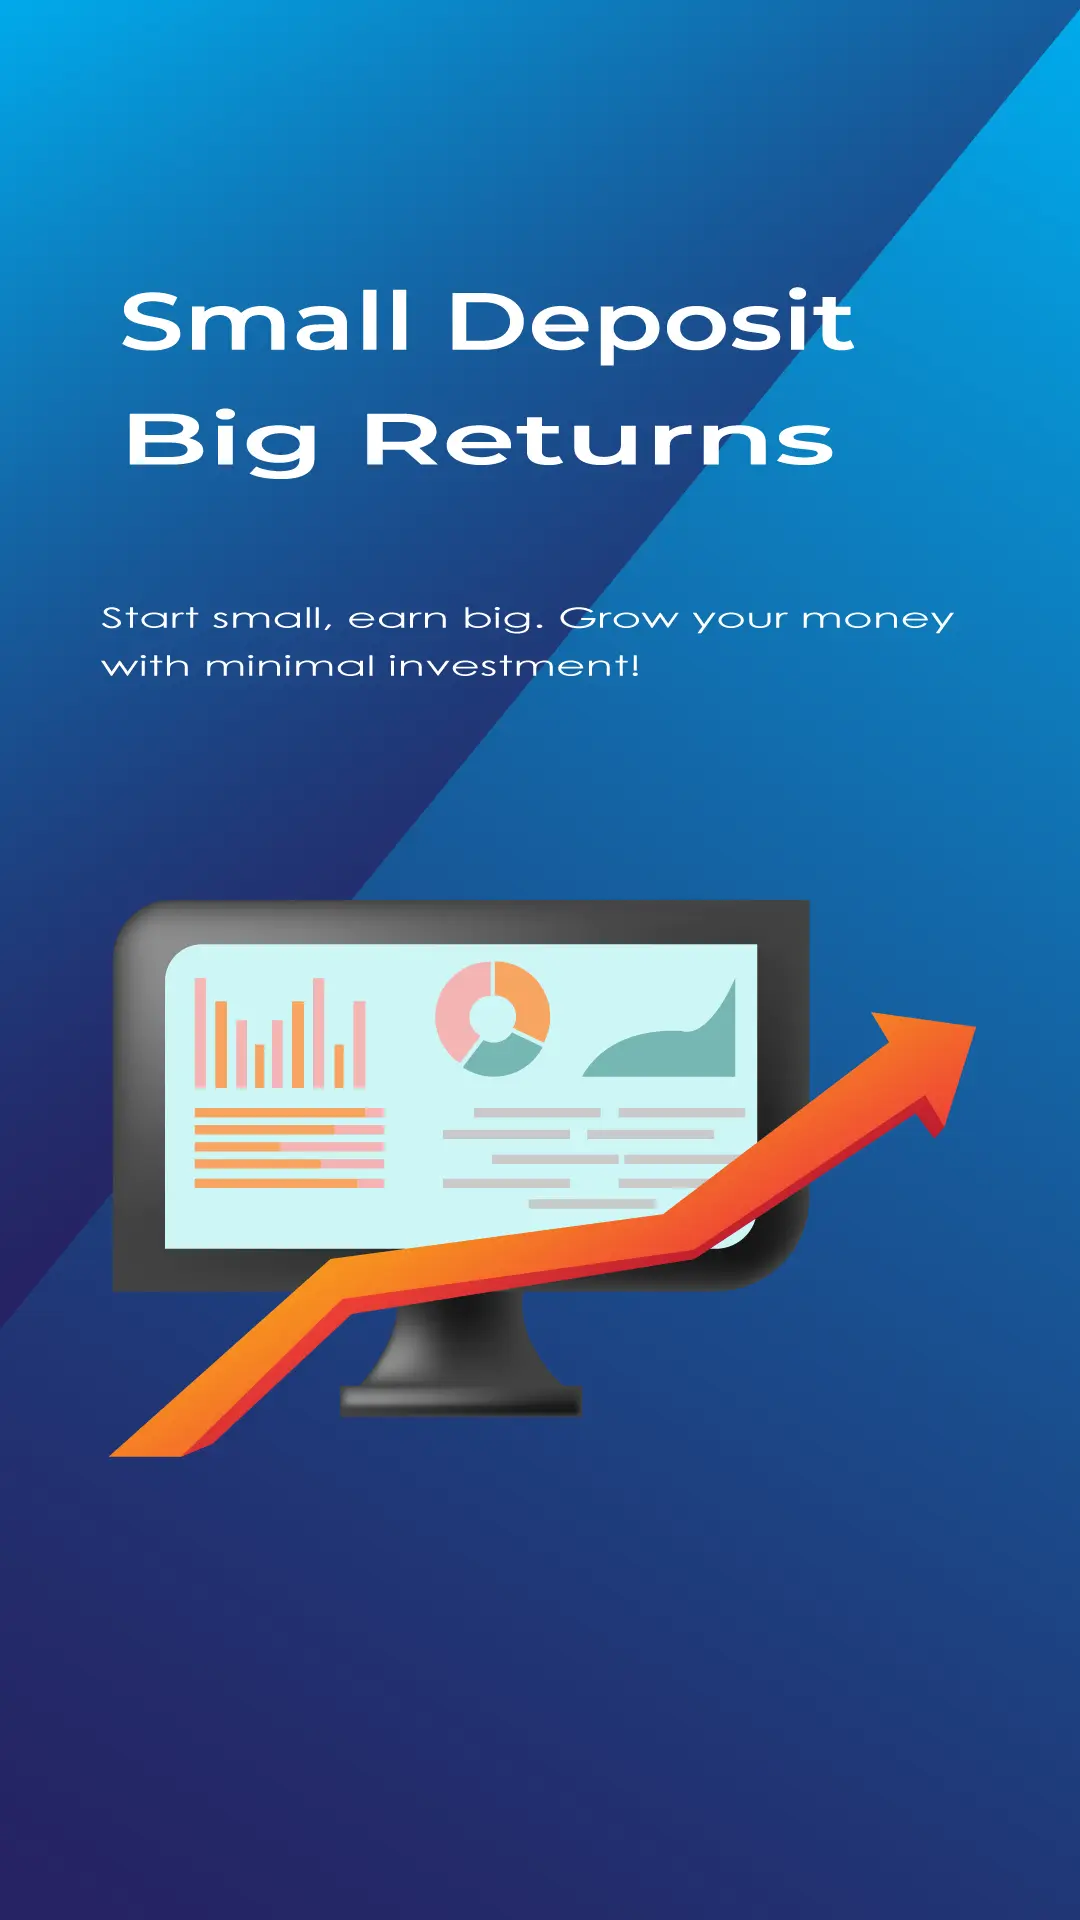
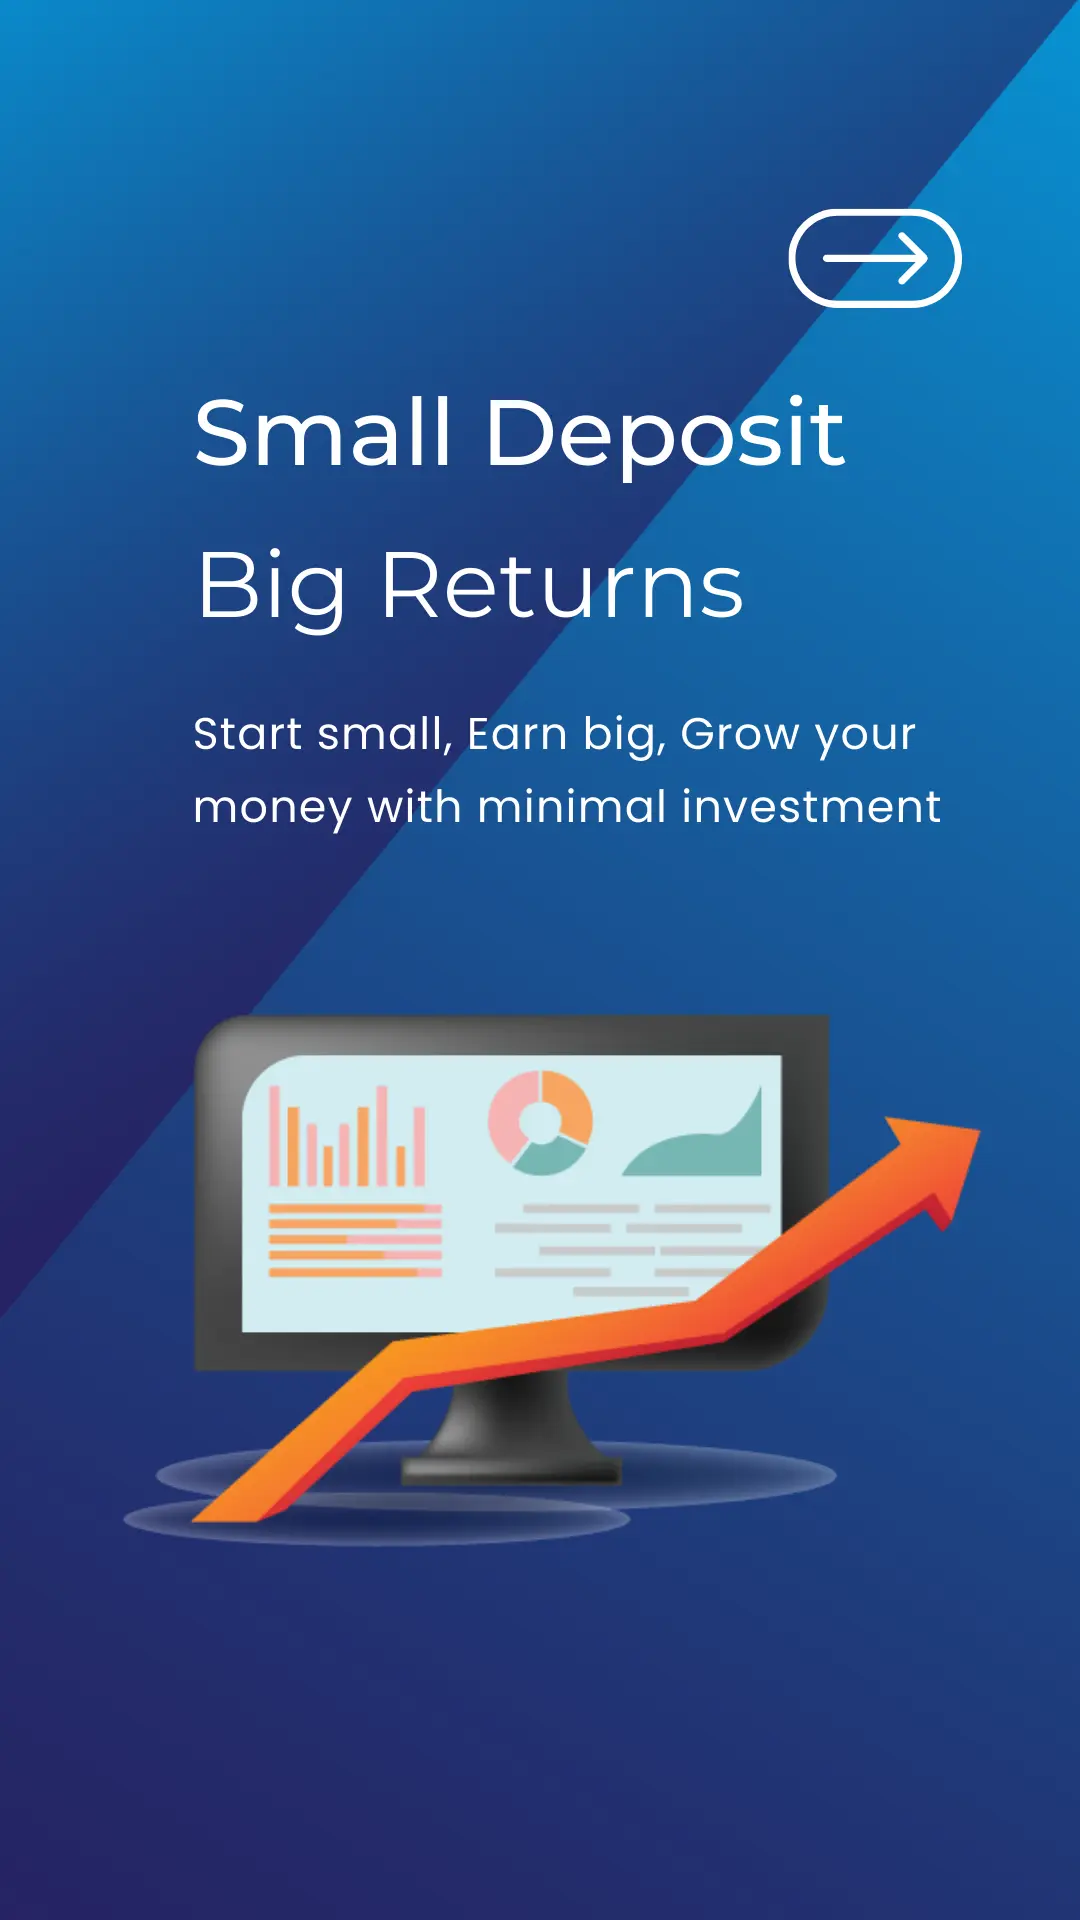
OnBoard screen image and splash screen change

Changed region(s): [[0.0, 0.0, 1.0, 0.8125], [0.7944, 0.3125, 0.8861, 0.3438]]

diff --git a/lib/screens/onBord/on_board_screen.dart b/lib/screens/onBord/on_board_screen.dart
@@ -94,3 +94,102 @@ class StartedScreen extends StatelessWidget {
     );
   }
 }
+
+
+
+// import 'package:flutter/material.dart';
+// import 'package:carousel_slider/carousel_slider.dart';
+// import 'package:v1_micro_finance/configs/routes/routes_name.dart';
+
+// class StartedScreen extends StatelessWidget {
+//   const StartedScreen({super.key});
+
+//   @override
+//   Widget build(BuildContext context) {
+//     // Screen height and width for responsive design
+//     final screenHeight = MediaQuery.of(context).size.height;
+//     final screenWidth = MediaQuery.of(context).size.width;
+
+//     return Scaffold(
+//       body: Stack(
+//         children: [
+//           // Background Image Slider
+//           CarouselSlider(
+//             options: CarouselOptions(
+//               height: screenHeight, // Full screen height
+//               autoPlay: true, // Enables auto sliding
+//               autoPlayInterval: Duration(seconds: 3), // 3 sec duration
+//               viewportFraction: 1.0, // Ensures full width coverage
+//               enableInfiniteScroll: true, // Infinite loop of images
+//             ),
+//             items: [
+//               'assets/images/image_one.webp',
+//               'assets/images/image_two.webp',
+//               'assets/images/image_three.webp',
+//               'assets/images/image_four.webp',
+//             ].map((imagePath) {
+//               return Container(
+//                 width: screenWidth, // Full width
+//                 decoration: BoxDecoration(
+//                   image: DecorationImage(
+//                     image: AssetImage(imagePath),
+//                     fit: BoxFit.cover, // Makes sure images fit the screen
+//                   ),
+//                 ),
+//               );
+//             }).toList(),
+//           ),
+
+//           // Buttons Section (Positioned at the bottom)
+//           Positioned(
+//             bottom: screenHeight * 0.1, // Position buttons dynamically
+//             left: screenWidth * 0.12,
+//             right: screenWidth * 0.12,
+//             child: Row(
+//               mainAxisAlignment:
+//                   MainAxisAlignment.spaceBetween, // Distribute buttons evenly
+//               children: [
+//                 _buildButton(context, 'Login', () {
+//                   Navigator.pushNamed(context,
+//                       RoutesName.signInScreen); // Navigate to login screen
+//                 }),
+//                 _buildButton(context, 'Get Started', () {
+//                   Navigator.pushNamed(context,
+//                       RoutesName.sanaSignupScreen); // Navigate to signup screen
+//                 }),
+//               ],
+//             ),
+//           ),
+//         ],
+//       ),
+//     );
+//   }
+
+//   // Function to create buttons with customized text and event handler
+//   Widget _buildButton(
+//       BuildContext context, String text, VoidCallback onPressed) {
+//     final screenHeight = MediaQuery.of(context).size.height;
+
+//     return SizedBox(
+//       height: screenHeight * 0.05, // Button height 5% of screen height
+//       child: ElevatedButton(
+//         onPressed: onPressed, // Click event for the button
+//         style: ElevatedButton.styleFrom(
+//           backgroundColor: Colors.white, // Button background color
+//           shape: RoundedRectangleBorder(
+//             borderRadius: BorderRadius.circular(10), // Rounded corners
+//           ),
+//         ),
+//         child: Text(
+//           text,
+//           style: TextStyle(
+//             color: Colors.black, // Text color
+//             fontFamily: 'Averia Libre', // Font family for text
+//             fontSize: 18, // Font size
+//             fontWeight: FontWeight.bold, // Bold text
+//           ),
+//         ),
+//       ),
+//     );
+//   }
+// }

diff --git a/lib/configs/data/user_reg_view.dart b/lib/configs/data/user_reg_view.dart
@@ -32,12 +32,12 @@ class SanaSignupScreen extends StatelessWidget {
                     _buildTextField(
                         viewModel.passwordController, 'Password', true),
                     _buildTextField(viewModel.emailController, 'Email', false),
+                    _buildCountryPicker(viewModel, context),
                     _buildTextField(
                         viewModel.phoneController, 'Phone Number', false),
                     _buildTextField(
                         viewModel.addressController, 'Address', false),
                     _buildDatePicker(viewModel, context),
-                    _buildCountryPicker(viewModel, context),
                     const SizedBox(height: 5),
 
                     // Upload Image Button with Checkmark

diff --git a/lib/main.dart b/lib/main.dart
@@ -39,7 +39,7 @@ class MicroFinance extends StatelessWidget {
         ),
       ),
       // This is the initial route indicating from where our app will start
-      initialRoute: RoutesName.startedScreen,
+      initialRoute: RoutesName.splashScreen,
       onGenerateRoute: Routes.generateRoute, // Route generator for navigation
     );
   }
